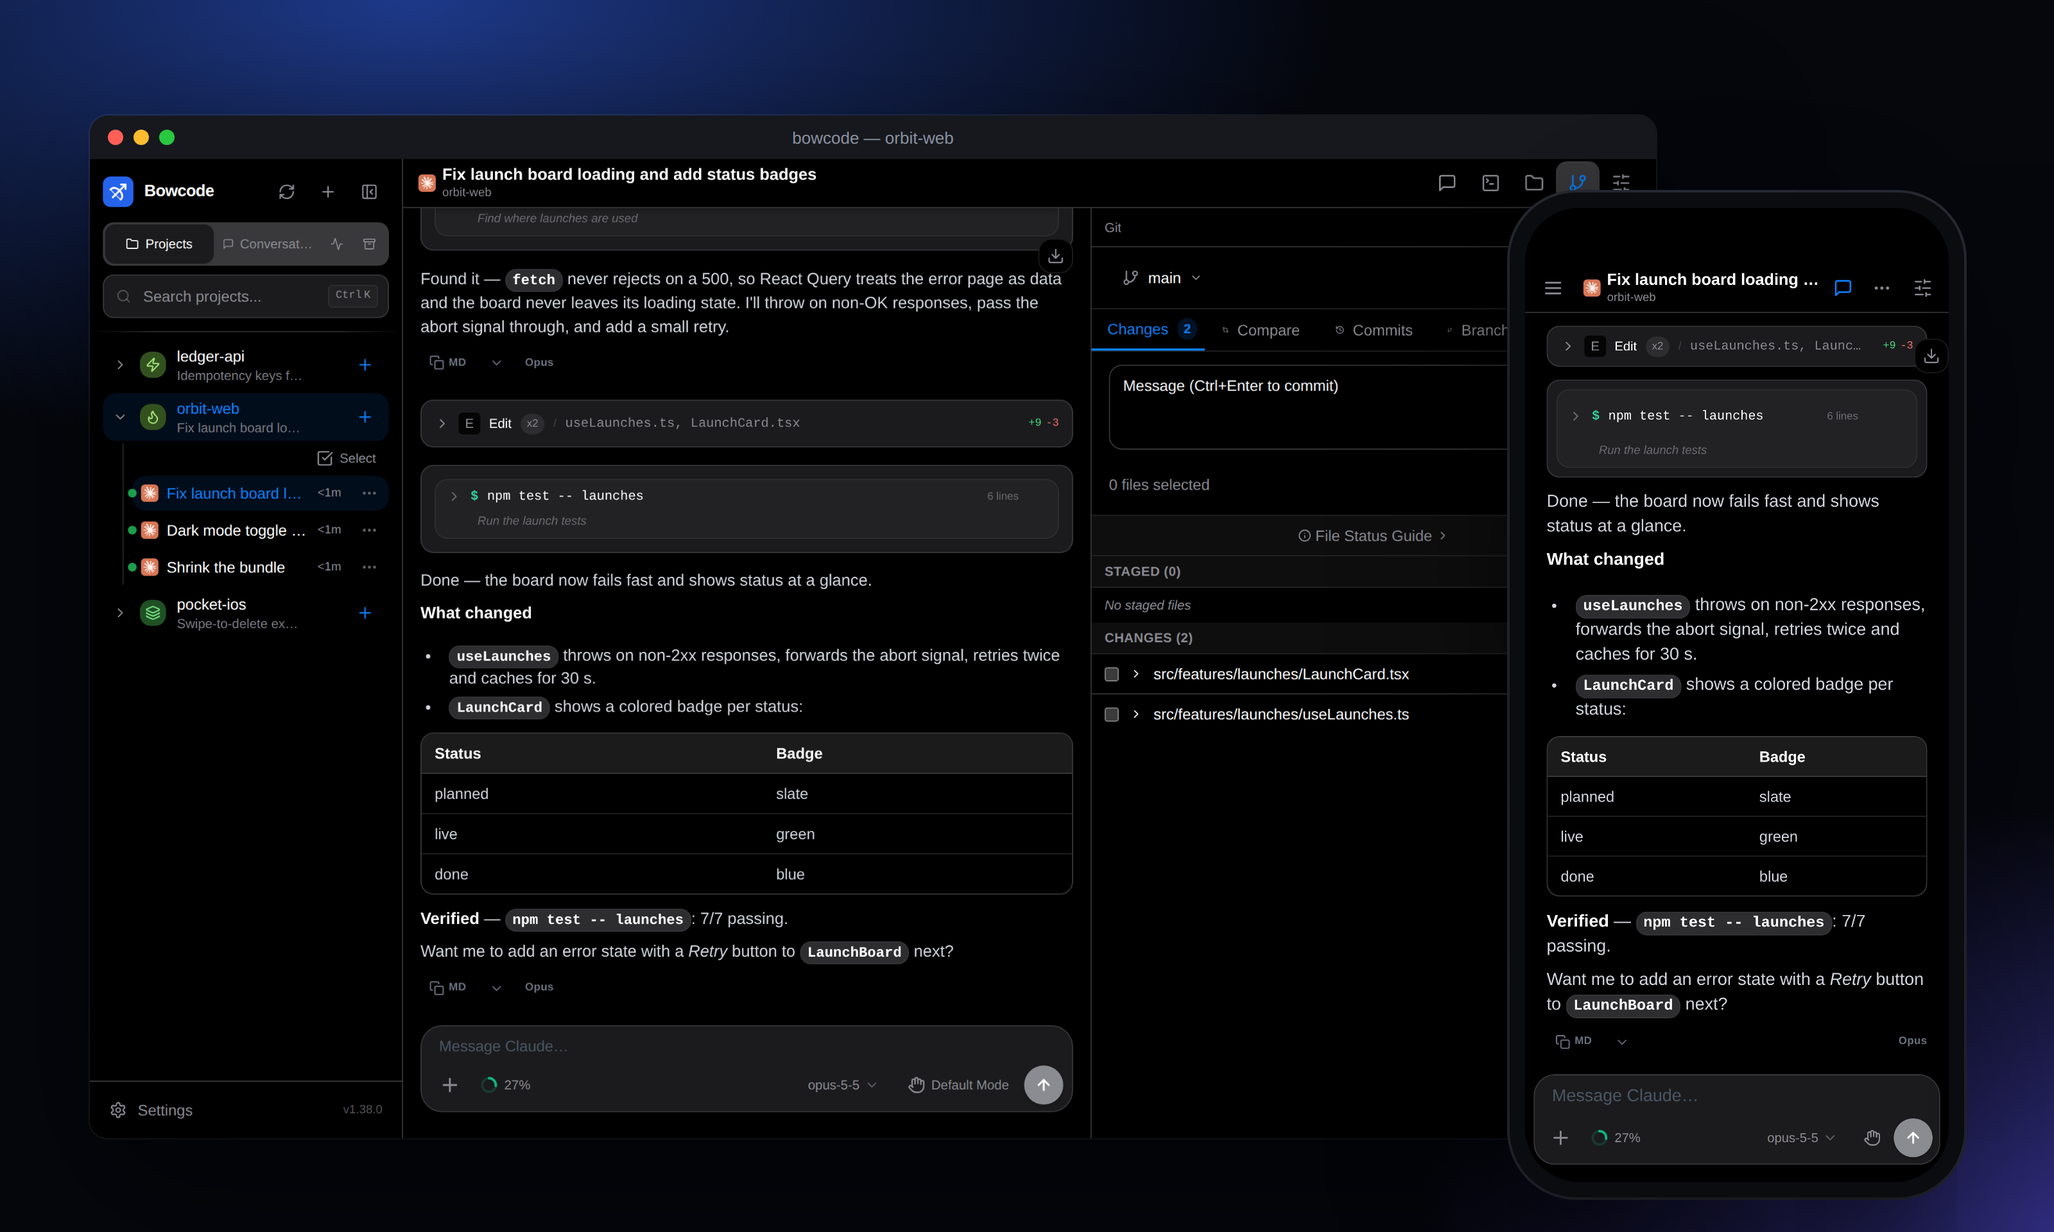
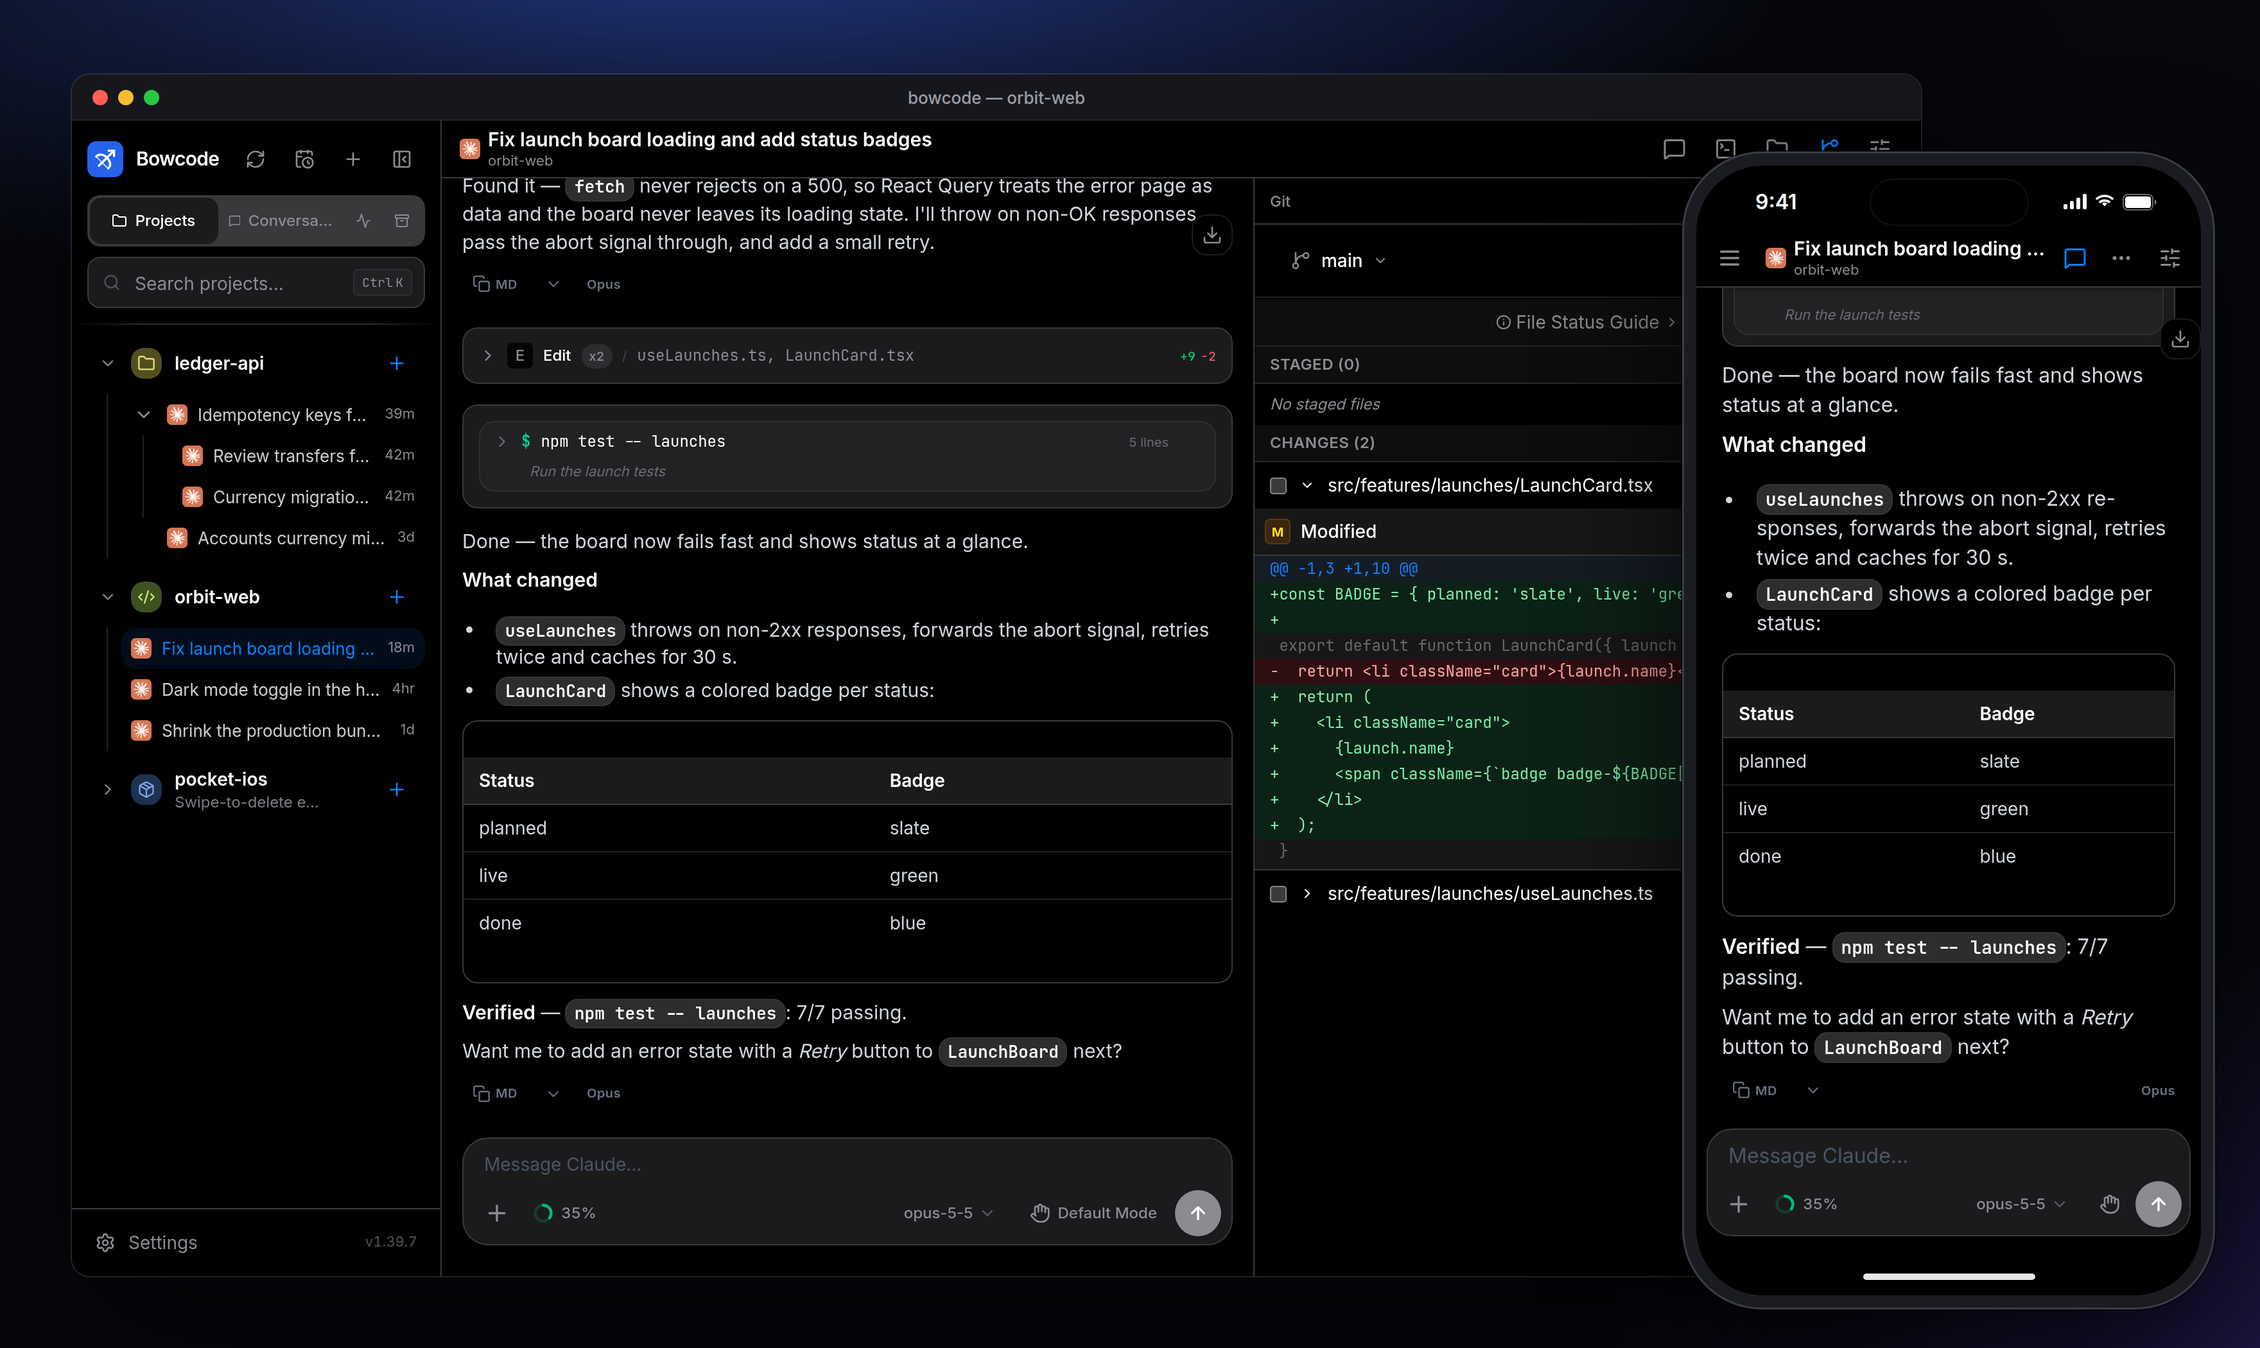
docs: refresh README, screenshots and changelog for 1.39
- README: feature grid covers schedules, nested sub-sessions, automatic
  titles, lazy file tree, session cleanup and release channels; adds a
  supported-agents table, a how-it-works diagram and the full CLI.
- Screenshots retaken at 2x from a demo instance with sample projects
  (no real data): hero, phone gallery, light mode with the file tree,
  and the Schedules dialog.
- CHANGELOG: entries for 1.38.3 through 1.39.7.

diff --git a/README.md b/README.md
@@ -1,57 +1,104 @@
 <div align="center">
 
-<img src="public/logo.svg" width="88" height="88" alt="Bowcode logo">
+<img src="public/logo.svg" width="96" height="96" alt="Bowcode logo">
 
 # Bowcode
 
-**Your coding agents, from anywhere.**
+### Your coding agents, from anywhere.
 
-A self-hosted web app for driving **Claude Code**, **Codex** and **OpenCode** on your own machine from any browser, including your phone.
+A self-hosted web app for driving **Claude Code**, **Codex** and **OpenCode**<br>
+on your own machine — from any browser, including your phone.
 
 [![Release](https://img.shields.io/github/v/release/50xu/bowcode?color=2563eb&label=release)](https://github.com/50xu/bowcode/releases/latest)
-[![Release workflow](https://img.shields.io/github/actions/workflow/status/50xu/bowcode/release.yml?label=build)](https://github.com/50xu/bowcode/actions/workflows/release.yml)
+[![Build](https://img.shields.io/github/actions/workflow/status/50xu/bowcode/release.yml?label=build)](https://github.com/50xu/bowcode/actions/workflows/release.yml)
+![Node](https://img.shields.io/badge/node-22.22%2B-3c873a)
 ![Platforms](https://img.shields.io/badge/platform-Linux%20%7C%20macOS-555)
 [![License: AGPL-3.0-or-later](https://img.shields.io/badge/license-AGPL--3.0--or--later-blue)](LICENSE)
 
-[Install](#install) · [Features](#features) · [Update](#updating) · [From source](#run-from-source) · [License](#license)
+**[Install](#-quick-start)** · [Features](#-features) · [How it works](#-how-it-works) · [Updating](#-updating) · [CLI](#-command-line) · [From source](#-run-from-source)
 
 <br>
 
-<img src="docs/images/hero.png" alt="Bowcode on desktop with the git panel open next to the chat, and on a phone" width="100%">
+<img src="docs/images/hero.png" alt="Bowcode on desktop with nested sub-sessions and the git panel open next to the chat, and on a phone" width="100%">
 
 </div>
 
-## Why Bowcode
+<br>
 
-Agents work best on the machine that has your code, keys and tools: a workstation, a home server or a cloud box. Bowcode runs on that machine and gives you a fast, polished UI for it from any browser. You can start a task at your desk, check on it from your phone on the train, approve a tool call and keep going.
+```bash
+curl -fsSL https://raw.githubusercontent.com/50xu/bowcode/main/install.sh | bash
+```
 
-- **Self-hosted.** Your code, sessions and credentials stay on your machine. There is no Bowcode cloud and no account with us.
-- **Bring your own agent.** It drives the official CLIs you already use, including Claude Code, Codex and OpenCode, with your own subscriptions or API keys.
-- **One agent per session.** It refuses to start a second agent on the same session, kills one that hangs, takes over from a terminal (TUI) session when you send from the web, and steps aside when you start a turn in the terminal. Two agents never edit one session at the same time.
+<p align="center"><sub>One line, Linux or macOS. Installs the <code>bowcode</code> command, starts it as a background service on port <code>3001</code>, and prints the address to open.</sub></p>
 
-## Features
+---
+
+## ✨ Why Bowcode
+
+Agents work best on the machine that has your code, keys and tools: a workstation, a home server or a cloud box. Bowcode runs on that machine and gives you a fast, polished UI for it from any browser. Start a task at your desk, check on it from your phone on the train, approve a tool call and keep going.
+
+<table>
+<tr>
+<td width="33%" valign="top">
+
+#### 🏠 Self-hosted
+Your code, sessions and credentials stay on your machine. There is no Bowcode cloud and no account with us.
+
+</td>
+<td width="33%" valign="top">
+
+#### 🔌 Bring your own agent
+It drives the official CLIs you already use, with your own subscriptions or API keys.
+
+</td>
+<td width="33%" valign="top">
+
+#### 🔒 One agent per session
+Two agents never edit one session at once. Bowcode takes over from the terminal when you send from the web, steps aside when you go back, and kills a turn that hangs.
+
+</td>
+</tr>
+</table>
+
+### Supported agents
+
+| Agent | Version | Sign-in |
+|---|---|---|
+| [Claude Code](https://docs.anthropic.com/en/docs/claude-code) | current | Claude subscription or API key |
+| [Codex](https://github.com/openai/codex) | current | ChatGPT plan or API key |
+| [OpenCode](https://opencode.ai) | **2.x** | any provider OpenCode supports |
+
+You need at least one of them installed and signed in on the machine.
+
+## 🚀 Features
 
 <table>
 <tr>
 <td width="50%" valign="top">
 
 ### 💬 Chat that keeps up
-Streaming replies, collapsible tool calls with inline diffs, tables and code, a context meter with one-tap **Compact**, queued and scheduled messages, and voice input.
+Streaming replies, collapsible tool calls with inline diffs, tables and code, a context meter with one-tap **Compact**, queued messages and voice input.
 
-### 🧭 Projects & sessions
-Every project and conversation on the machine is in one sidebar, including sessions started in the terminal, which you can watch live. You can search, star, rename and archive them.
+### 🧭 Every session in one place
+All projects and conversations on the machine, including sessions started in the terminal, which you can watch live. Search, star, rename and archive them. New sessions get a short **auto-generated title** in the language you wrote in.
 
-### 🛠 Tools beside the chat
-On desktop, files, a git client (stage, commit, branches, worktrees), a full terminal and a browser open in a resizable side panel, so the chat stays in view.
+### 🌳 Sub-sessions, nested
+When an agent launches another agent (`claude -p`, `opencode run`, …), the child session is nested under its parent in the sidebar, across providers and projects, so background work never gets lost.
+
+### ⏰ Schedules
+Run a prompt on a **recurring schedule** or once at a set time, per project: presets or a raw cron expression, in your time zone, with a preview of the next runs and a history that links every run's session.
 
 </td>
 <td width="50%" valign="top">
 
+### 🛠 Tools beside the chat
+On desktop, files, a git client (stage, commit, branches, worktrees), a full terminal and a browser open in a resizable side panel. The file tree loads lazily and searches on the server, so even a folder of large repos opens instantly.
+
 ### 📱 Built for the phone
-It installs as a PWA with an iOS-style layout, safe-area aware, with a keyboard-aware composer and smooth scrolling through long transcripts.
+Installs as a PWA with an iOS-style layout: safe-area aware, a keyboard-aware composer and smooth scrolling through long transcripts.
 
 ### 🔐 Your rules
-Per-agent permission modes, MCP servers, skills and models, plus web push notifications when an agent needs you.
+Per-agent permission modes, MCP servers, skills and models, plus **web push notifications** when an agent needs you. Optionally archive or delete sessions that have been idle for N days.
 
 ### 🔄 Settings that follow you
 **Sync** settings to a git repository you own and pull them on another install. Secrets are never written to the repository.
@@ -60,43 +107,68 @@ Per-agent permission modes, MCP servers, skills and models, plus web push notifi
 </tr>
 </table>
 
-<img src="docs/images/phones.png" alt="Bowcode on a phone: projects, chat and settings" width="100%">
+<img src="docs/images/phones.png" alt="Bowcode on a phone: projects with sub-sessions, chat and settings" width="100%">
 
 <details>
 <summary><b>More screenshots</b></summary>
 <br>
 
-| Light mode | Git side panel |
+| Light mode with the file tree | Schedules |
 |---|---|
-| <img src="docs/images/desktop-chat-light.png" alt="Chat in light mode"> | <img src="docs/images/desktop-git-dark.png" alt="Chat with the git side panel"> |
+| <img src="docs/images/desktop-files-light.png" alt="Chat in light mode with the file tree open"> | <img src="docs/images/desktop-schedules-dark.png" alt="The Schedules dialog with recurring prompts"> |
 
 </details>
 
-## Install
+## 🧩 How it works
 
-You need **Linux or macOS**, **Node.js 22.22+** (24 or 26 recommended), and at least one agent CLI installed and signed in ([Claude Code](https://docs.anthropic.com/en/docs/claude-code), [Codex](https://github.com/openai/codex) or [OpenCode](https://opencode.ai) 2 or newer).
+```mermaid
+flowchart LR
+    subgraph You["Anywhere"]
+        D["💻 Desktop browser"]
+        P["📱 Phone (PWA)"]
+    end
+    subgraph Machine["Your machine"]
+        B["Bowcode<br/>:3001"]
+        C["Claude Code"]
+        X["Codex"]
+        O["OpenCode"]
+        R[("Your repos,<br/>keys & tools")]
+    end
+    D -- "HTTPS / private network" --> B
+    P -- "HTTPS / private network" --> B
+    B --> C & X & O
+    C & X & O --> R
+```
+
+Bowcode is a single Node.js server. It runs the official agent CLIs on your behalf, reads the sessions they write to disk (so terminal sessions show up too) and streams everything to the browser. Its own data lives in `~/.bowcode`.
+
+## 📦 Quick start
+
+**Requirements:** Linux or macOS · **Node.js 22.22+** (24 or 26 recommended) · at least one [supported agent](#supported-agents)
 
 ```bash
 curl -fsSL https://raw.githubusercontent.com/50xu/bowcode/main/install.sh | bash
 ```
 
-The installer:
-1. installs the `bowcode` command from the latest GitHub Release;
-2. starts it as a background service (a **systemd** user service on Linux, a **launchd** agent on macOS);
-3. prints the address to open. Bowcode serves on port `3001` by default.
-
-Open it, create your account, and you're in.
+1. The installer adds the `bowcode` command from the latest GitHub Release.
+2. It starts Bowcode as a background service — a **systemd** user service on Linux, a **launchd** agent on macOS.
+3. It prints the address. Open it, create your account, and you're in.
 
 <details>
-<summary>Installer options and manual install</summary>
+<summary><b>Installer options</b></summary>
 <br>
 
 ```bash
-# pin a version, change the port, or skip the background service
-curl -fsSL https://raw.githubusercontent.com/50xu/bowcode/main/install.sh | bash -s -- --version v1.38.0 --port 8080 --no-service
+# pin a version, follow the beta channel, change the port, or skip the background service
+curl -fsSL https://raw.githubusercontent.com/50xu/bowcode/main/install.sh | bash -s -- \
+  --version v1.39.7 --channel beta --port 8080 --no-service
 ```
 
-Without the script:
+</details>
+
+<details>
+<summary><b>Manual install (without the script)</b></summary>
+<br>
 
 ```bash
 npm install -g https://github.com/50xu/bowcode/releases/latest/download/bowcode.tgz \
@@ -108,28 +180,32 @@ On Linux, run `loginctl enable-linger $USER` once so the service keeps running a
 
 </details>
 
-> **Reaching it from your phone.** Bowcode listens on your network. For access away from home, put it behind a private network such as [Tailscale](https://tailscale.com) or a reverse proxy with HTTPS. Don't expose it to the open internet without one: it gives full shell access to the machine.
+> [!WARNING]
+> **Reaching it from your phone.** Bowcode listens on your network and gives **full shell access** to the machine. For access away from home, put it behind a private network such as [Tailscale](https://tailscale.com) or a reverse proxy with HTTPS. Never expose it to the open internet without one.
 
-## Updating
+## 🔄 Updating
 
 | | |
 |---|---|
 | **In the app** | A dot appears on **Settings** when a new release is out. Open **Settings → About → Update now**: Bowcode updates and restarts itself, and the page reloads. |
-| **From a terminal** | `bowcode update` (or `bowcode update --check` to just look). |
+| **From a terminal** | `bowcode update` — or `bowcode update --check` to just look. |
+| **Release channel** | **Stable** by default. Switch to **Beta** in **Settings → About**, or pass `--channel beta`, to get prereleases first. |
 
-Your data lives in `~/.bowcode` and is kept across updates.
+Your data in `~/.bowcode` is kept across updates.
 
-## Commands
+## ⌨ Command line
 
 ```text
-bowcode start [--port N]           run in the foreground
-bowcode service install|uninstall|status
-bowcode update [--check] [--version vX.Y.Z]
+bowcode start [--port N]                    run in the foreground (the default command)
+bowcode service install|uninstall|status    manage the background service
+bowcode update [--check] [--channel stable|beta] [--version vX.Y.Z]
+bowcode status                              show configuration and data paths
+bowcode sandbox <path> [--agent claude|codex]   run in a Docker sandbox
 bowcode version
-bowcode status                     show configuration and paths
+bowcode help
 ```
 
-## Run from source
+## 🧑💻 Run from source
 
 ```bash
 git clone https://github.com/50xu/bowcode.git && cd bowcode
@@ -140,8 +216,8 @@ npm run dev             # or hot-reload development
 
 Contributions are welcome. See [CONTRIBUTING.md](CONTRIBUTING.md), including how releases are cut (`npm run release -- minor`).
 
-## License
+## 📄 License
 
 Licensed under **AGPL-3.0-or-later** — see [LICENSE](LICENSE) and [NOTICE](NOTICE). Claude Code, Codex and OpenCode are third-party tools; their names belong to their owners.
 
-_Bowcode is forked and modified from CloudCLI UI (https://github.com/siteboon/claudecodeui)._
+<sub>Bowcode is forked and modified from [CloudCLI UI](https://github.com/siteboon/claudecodeui).</sub>

diff --git a/CHANGELOG.md b/CHANGELOG.md
@@ -2,6 +2,57 @@
 
 All notable changes to Bowcode are listed here. Releases: https://github.com/50xu/bowcode/releases
 
+## 1.39.7
+- **Sub-sessions:** a session that another agent launched (`claude -p`, `opencode run`, wrappers under `systemd-run`, …) is nested under its parent in the sidebar, across providers and projects. Open the children from a chevron on the parent row.
+- **Release channels:** pick **Stable** or **Beta** in Settings → About. `bowcode update` and `install.sh` take `--channel stable|beta`.
+- **File tree:** it loads lazily, so folders with many repos open instantly. Search, @-mentions and the command palette now search files on the server. A single button collapses or expands every folder.
+- OpenCode's context meter shows the current context window instead of the summed session total.
+- The first click on "+" starts a new session.
+- Portal menus stay open while other content scrolls.
+- Project, session and subagent rows in the sidebar are indented more evenly.
+
+## 1.39.6
+- Ordered lists in chat leave room for two-digit numbers.
+- Reloading a page works when Bowcode is installed under a hidden directory.
+
+## 1.39.5
+- Sessions stand apart from their project in the sidebar: indented with a guide line, and only the selected one is highlighted. Bulk **Select** moved into the project's "…" menu.
+- Scheduled runs have no time limit by default.
+- Long transcripts scroll more smoothly, because the chat has a single scroll container.
+- The PWA workspace shrinks for the virtual keyboard again.
+- The mobile sidebar closes from its hide button.
+
+## 1.39.4
+- iOS PWA: fixed the gap at the bottom of the screen and the keyboard offset, both broken by the Tailwind 4 upgrade.
+
+## 1.39.3
+- Queued, send-now and scheduled messages stream live into the tab already showing the session, without a reload.
+
+## 1.39.2
+- Fixed the release build on npm 11 / Node 26 (install-script approvals now live in `package.json`).
+
+## 1.39.1
+- **Automatic session titles:** new sessions get a 3–7 word title from Claude Haiku, written in the language of the first prompt. Your own renames are never overwritten. The session menu has **Generate title**, and Settings → Sessions can turn this off.
+- On Node 22, a scheduled run's time limit now fires reliably.
+
+## 1.39.0
+- **Schedules:** run a prompt per project on a recurring schedule or once, using presets or a cron expression in your time zone. A preview shows the next runs, and the run history links each run's session.
+- **Session cleanup:** Settings → Sessions can archive or delete sessions after N days without activity. It is off by default and never touches busy or queued sessions.
+- **OpenCode 2:** only OpenCode 2.x is supported now (1.x is refused). Codex is upgraded to 0.166, with GPT-6.1 Sol as the default model.
+- **Breaking:** the Electron desktop app has been removed. Bowcode ships as a web server, a Docker image and `install.sh`.
+- Requires **Node.js 22.22+**. Releases are built on Node 26.
+- Upgraded to React 19, Tailwind CSS 4, react-router 8 and Express 5.
+- The context meter is measured against what the model's context window can hold.
+
+## 1.38.4
+- Conversations are grouped into Today, Yesterday, Previous 7 days and Older, with roomier rows.
+- Settings → About forces a fresh release check.
+- Server-owned Claude CLI processes are recognised on macOS.
+- Added `favicon.ico`.
+
+## 1.38.3
+- Removed references to the upstream project.
+
 ## 1.38.2
 - Repository moved to `50xu/bowcode`.
 
